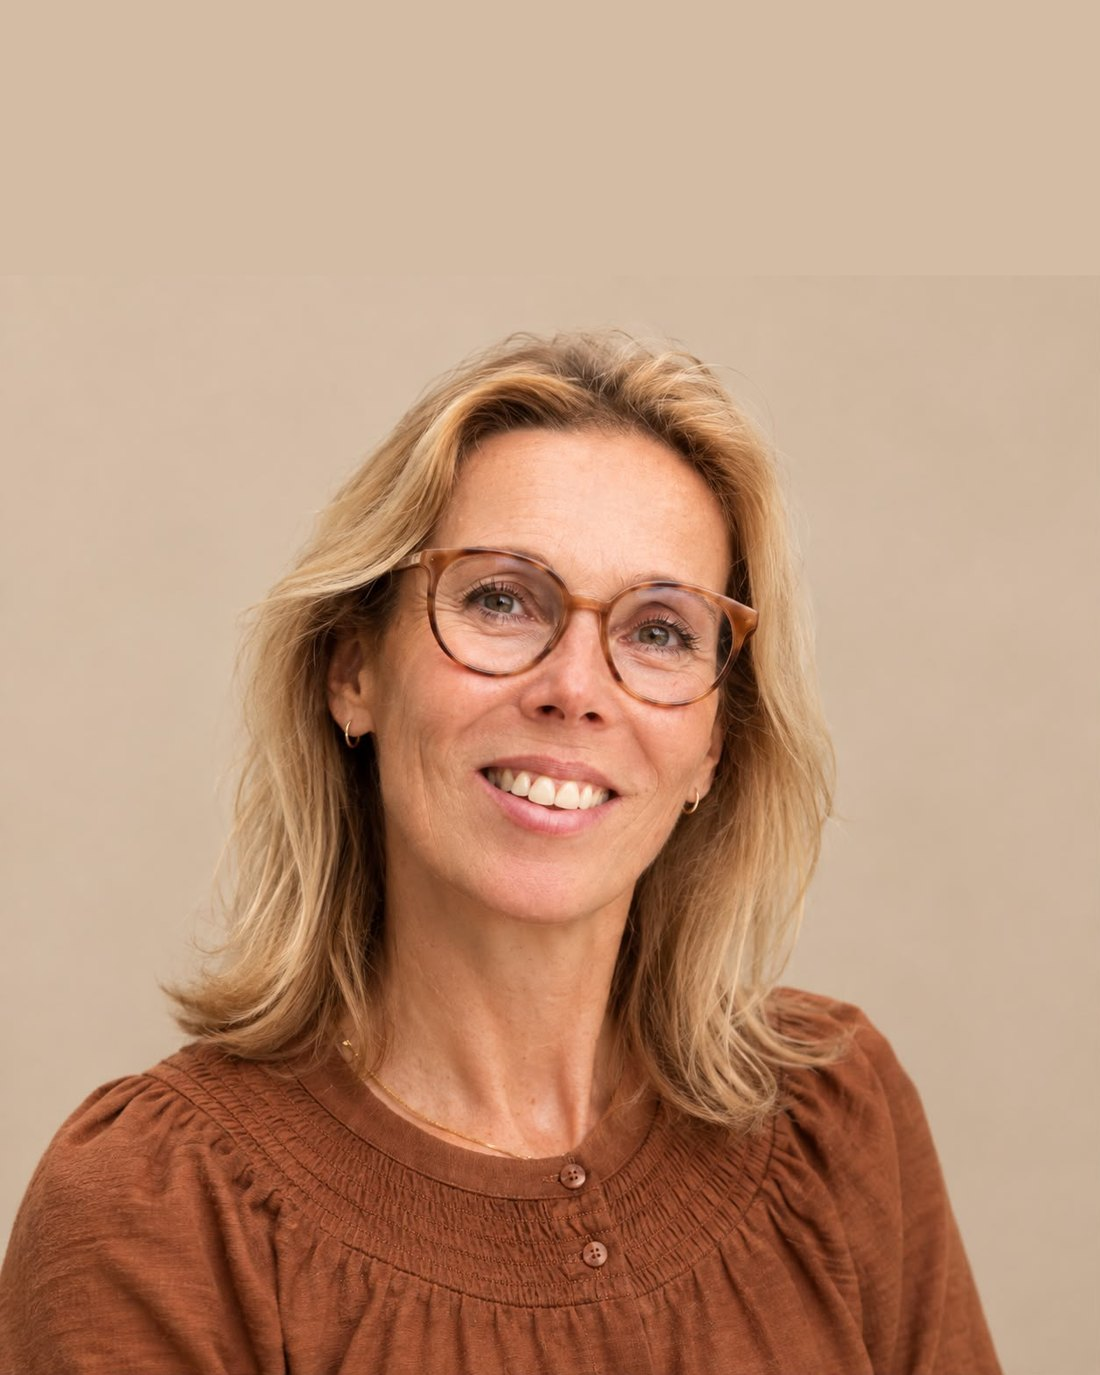
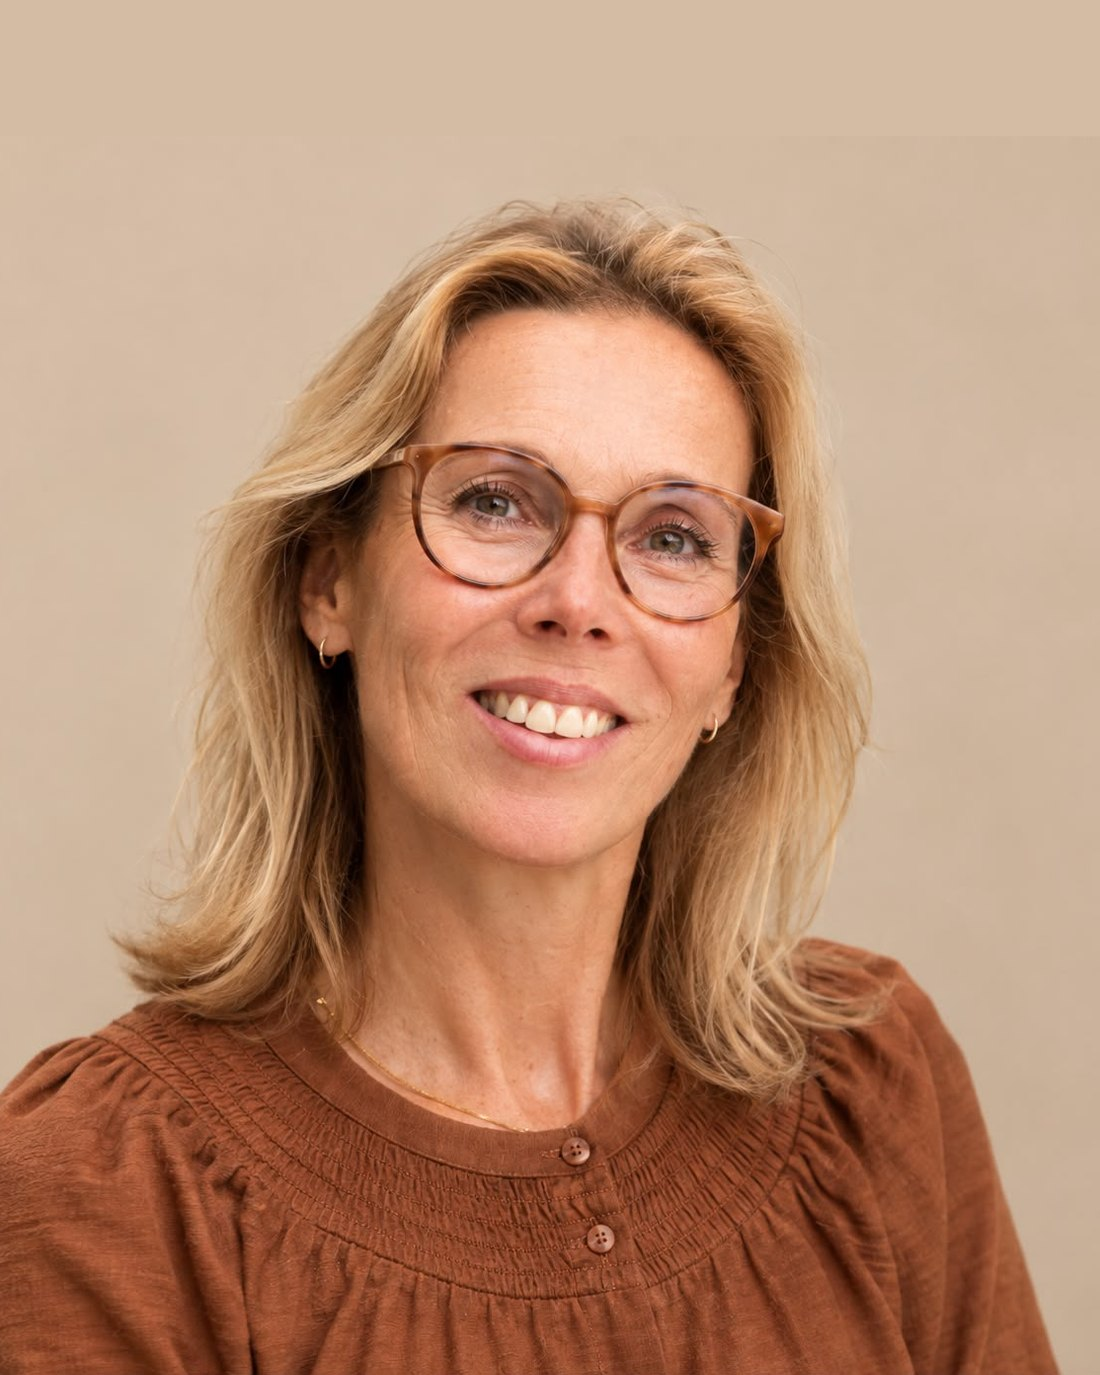
Praktisch: vergoeding-tekst herschreven (2 kopjes: aanvullende verzekering + werkgever), los zakelijk-blok samengevoegd, annuleer-note bij tarieven verwijderd; portretfoto wat ingezoomd

diff --git a/praktisch.html b/praktisch.html
@@ -121,24 +121,16 @@
 </section>
 
 <!-- VERGOEDING -->
-<section class="pad-sm bg-cream" id="vergoeding" style="padding-bottom:clamp(14px,1.8vw,22px);">
+<section class="pad-sm bg-cream" id="vergoeding">
   <div class="wrap-tight">
     <div class="eyebrow center reveal" style="margin-bottom:18px;">Vergoeding</div>
     <h2 class="title reveal" data-delay="1" style="text-align:center; margin-bottom:28px;">Wordt het vergoed?</h2>
     <div class="card reveal" data-delay="1" style="padding:clamp(26px,3.4vw,40px);">
-      <p>Ademtherapie valt onder psychosomatische fysiotherapie en wordt vaak (gedeeltelijk) vergoed via de aanvullende zorgverzekering. De hoogte hangt af van je zorgverzekeraar en polis.</p>
-      <p style="margin-top:14px;">Heb je fysiotherapie in je aanvullende pakket, dan wordt er rechtstreeks gedeclareerd.</p>
-      <p style="margin-top:16px; font-weight:600; color:var(--text);">Informeer vooraf bij je zorgverzekeraar over het aantal fysiotherapie behandelingen dat je per jaar vergoed krijgt.</p>
-    </div>
-  </div>
-</section>
-
-<!-- ZAKELIJK -->
-<section class="pad-sm bg-cream" id="zakelijk" style="padding-top:clamp(14px,1.8vw,22px);">
-  <div class="wrap-tight">
-    <div class="card reveal" style="padding:clamp(26px,3.4vw,40px); border-left:4px solid var(--copper);">
-      <div class="eyebrow no-rule" style="margin-bottom:12px;">Zakelijk · via je werkgever</div>
-      <p style="font-size:clamp(17px,1.5vw,21px); line-height:1.5; color:var(--text);">Ook zakelijk kan het: een traject kan via je werkgever lopen. Op aanvraag stel ik hiervoor een offerte op.</p>
+      <div class="eyebrow no-rule" style="margin-bottom:10px;">Via de aanvullende verzekering</div>
+      <p>Ademtherapie valt onder psychosomatische fysiotherapie en wordt vergoed als je een aanvullende verzekering met fysiotherapie hebt.</p>
+      <p style="margin-top:12px;">Het aantal behandelingen dat je per jaar vergoed krijgt, hangt af van welk aanvullend pakket je hebt.</p>
+      <div class="eyebrow no-rule" style="margin-top:26px; margin-bottom:10px;">Via je werkgever</div>
+      <p>Ademtherapie kan ook vergoed worden via je werkgever. Als de therapie bijdraagt aan re-integratie of duurzame inzetbaarheid, zijn werkgevers veelal bereid hierin te ondersteunen. Op aanvraag stel ik hier een offerte voor op.</p>
     </div>
   </div>
 </section>
@@ -174,7 +166,6 @@
         <div class="r-price">€ 15</div>
       </div>
     </div>
-    <p class="reveal" data-delay="1" style="text-align:center; margin-top:22px; font-size:14px; color:var(--text-mute);">Afspraak verzetten of annuleren kan tot 24 uur van tevoren kosteloos; daarna wordt de helft van het sessietarief in rekening gebracht</p>
   </div>
 </section>
 
